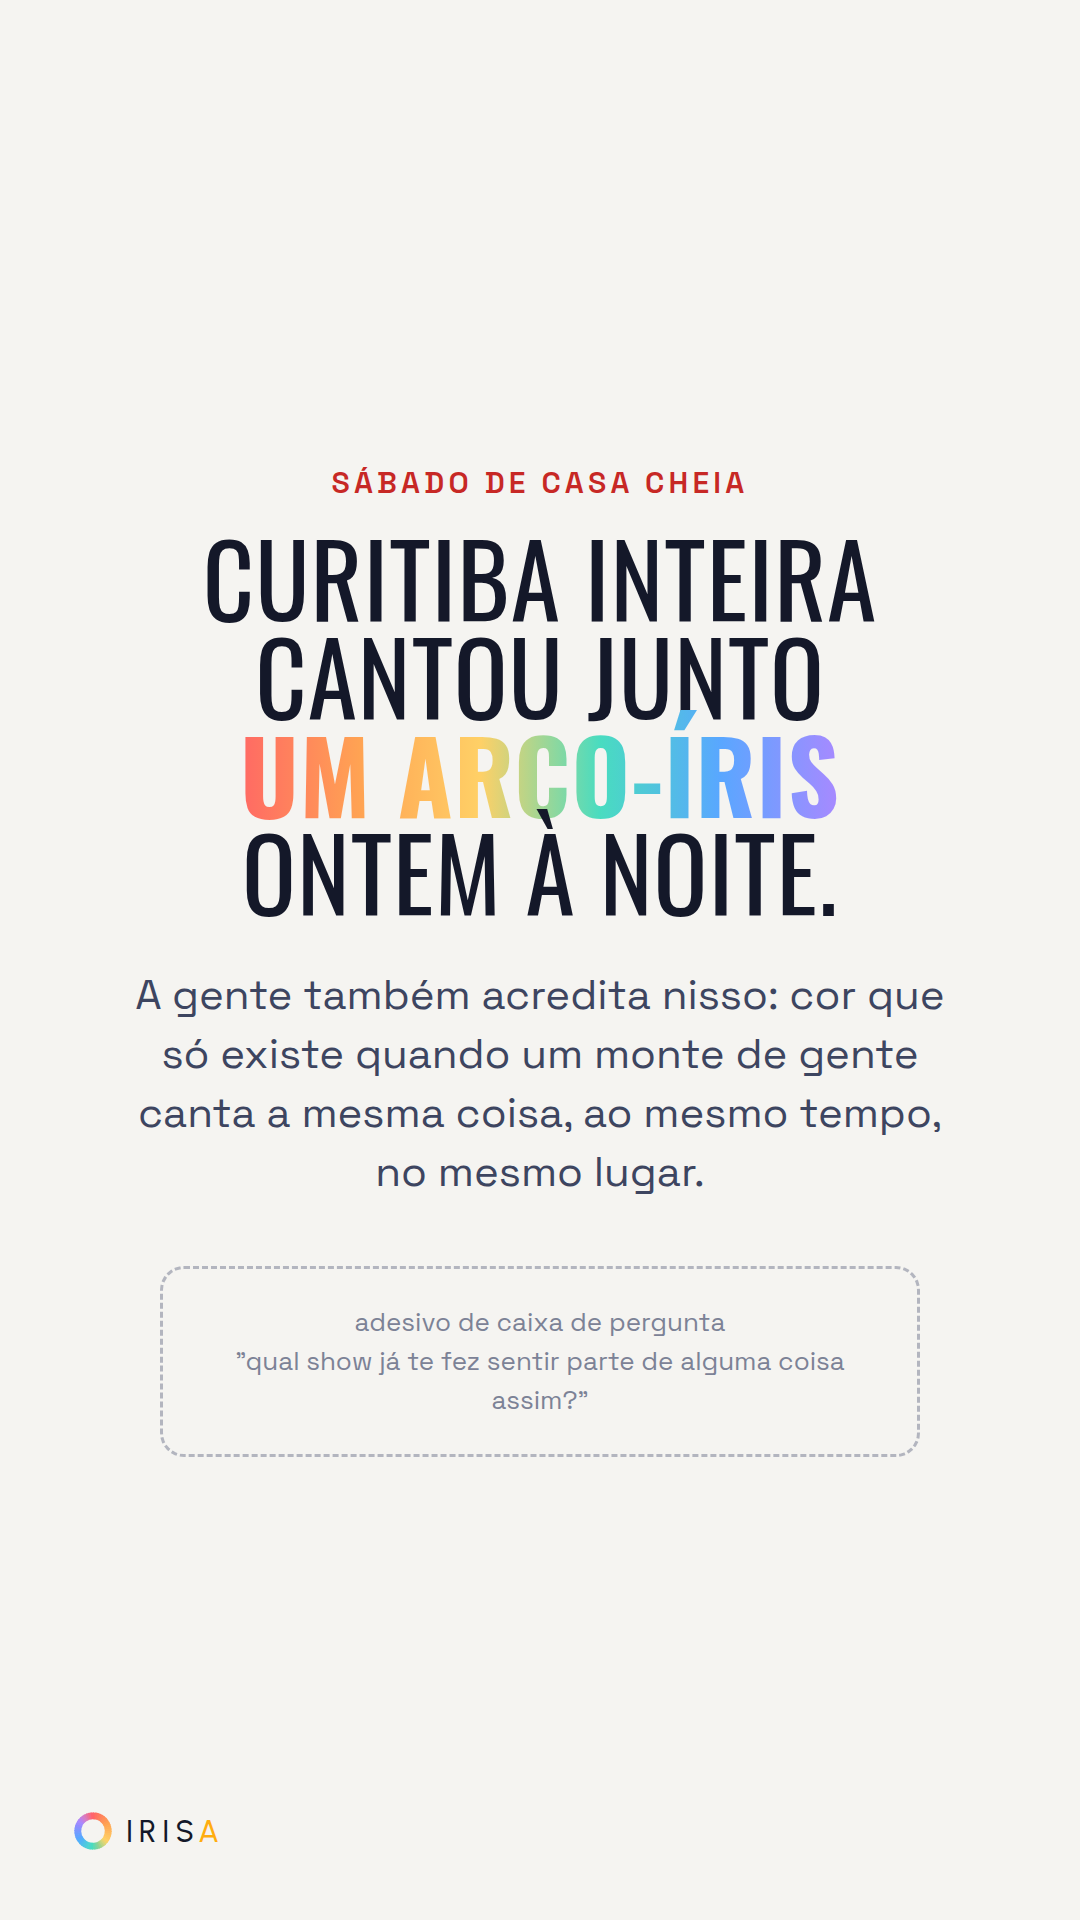
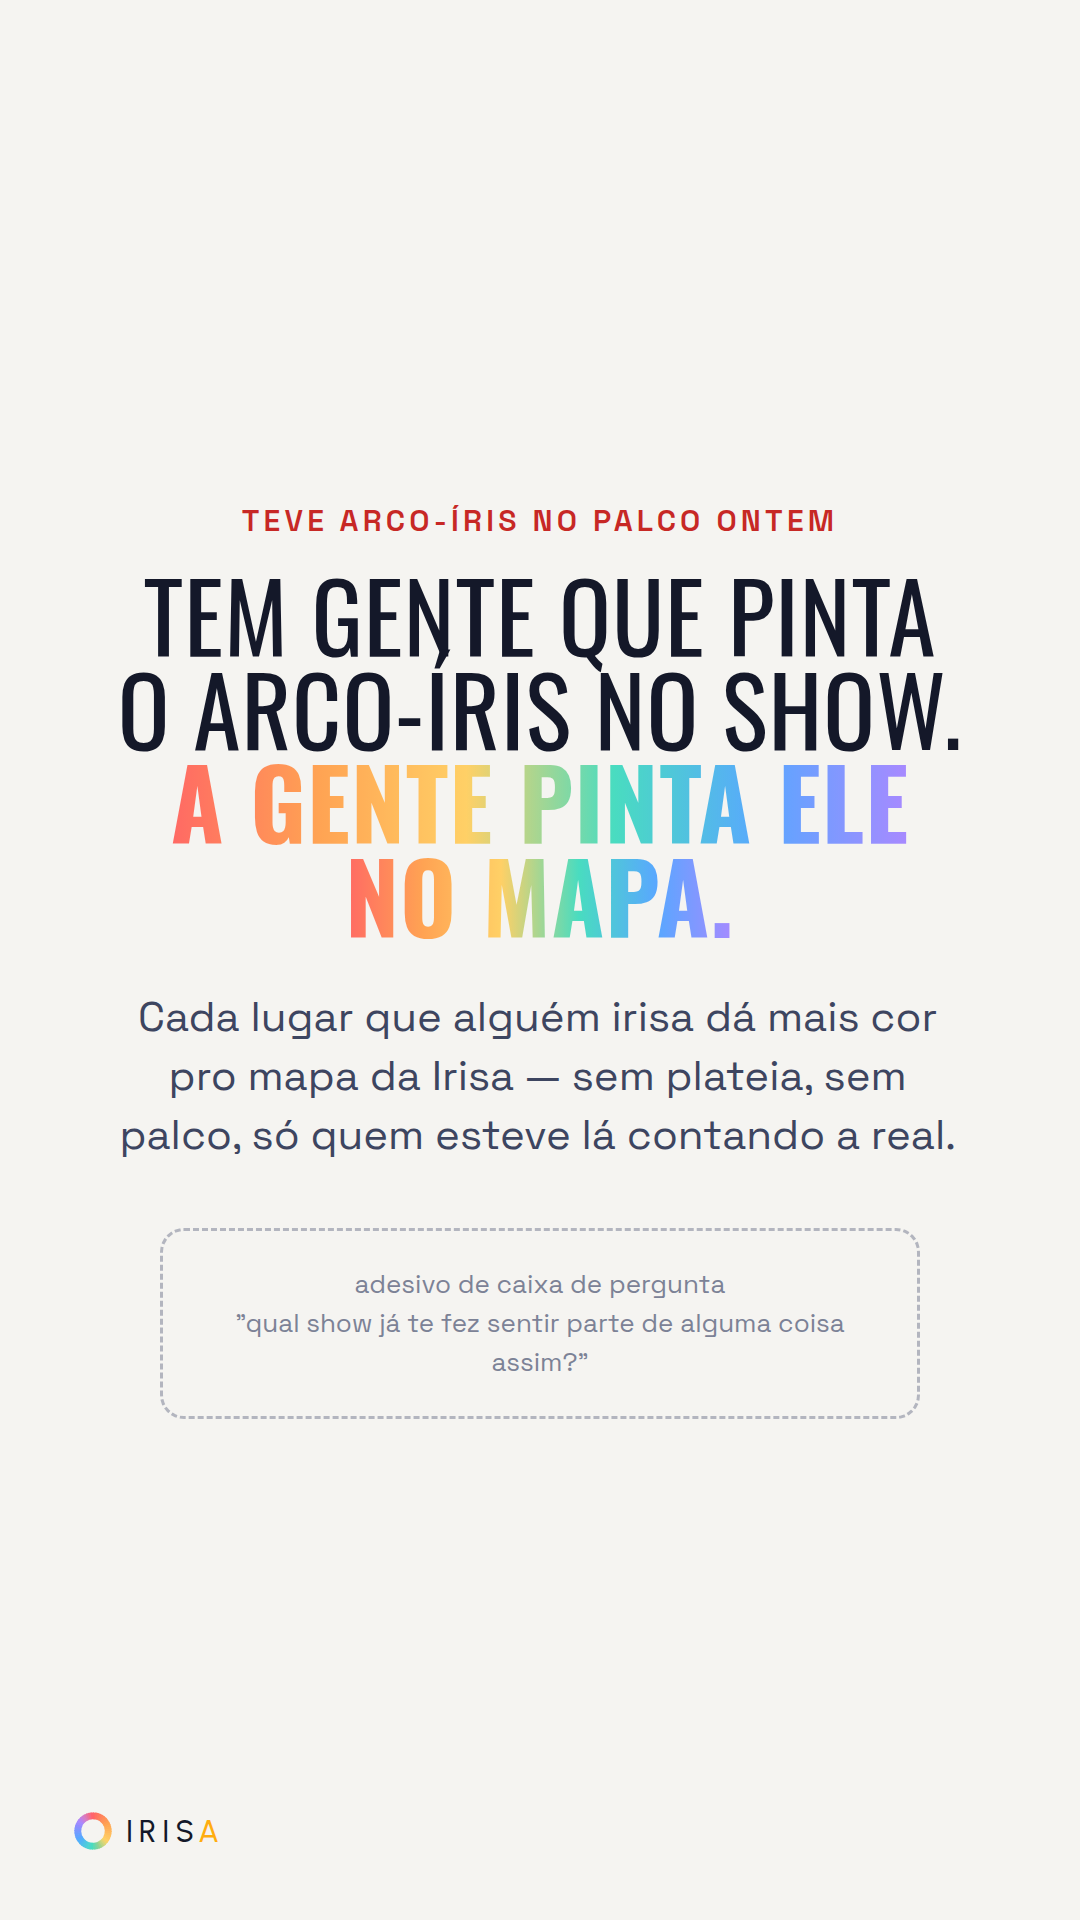
Story de hoje: troca o gancho por trocadilho com o verbo irisar

Changed region(s): [[0.0917, 0.25, 0.8861, 0.625], [0.2139, 0.6562, 0.7944, 0.75]]

diff --git a/docs/story-arcoiris.html b/docs/story-arcoiris.html
@@ -39,14 +39,14 @@ body{font-family:var(--body);color:var(--ink);display:flex;flex-direction:column
 <section class="sl story">
   <div class="bg"></div>
   <div class="c">
-    <div class="eyebrow" style="color:var(--coralInk)">sábado de casa cheia</div>
-    <p class="big c" style="font-size:100px;margin:26px 0 46px">
-      <span class="lt">Curitiba inteira</span><br>
-      <span class="lt">cantou junto</span><br>
-      <span class="rainbow">um arco-íris</span><br>
-      <span class="lt">ontem à noite.</span>
+    <div class="eyebrow" style="color:var(--coralInk)">teve arco-íris no palco ontem</div>
+    <p class="big c" style="font-size:96px;margin:26px 0 46px">
+      <span class="lt">Tem gente que pinta</span><br>
+      <span class="lt">o arco-íris no show.</span><br>
+      <span class="rainbow">A gente pinta ele</span><br>
+      <span class="rainbow">no mapa.</span>
     </p>
-    <p class="body c">A gente também acredita nisso: cor que só existe quando um monte de gente canta a mesma coisa, ao mesmo tempo, no mesmo lugar.</p>
+    <p class="body c">Cada lugar que alguém irisa dá mais cor pro mapa da Irisa — sem plateia, sem palco, só quem esteve lá contando a real.</p>
   </div>
   <div class="zone" style="margin-top:64px">adesivo de caixa de pergunta<br>"qual show já te fez sentir parte de alguma coisa assim?"</div>
   <div class="brand"><svg class="mark" viewBox="0 0 100 100"><use href="#radarmin"></use></svg><span>Iris<b>a</b></span></div>
